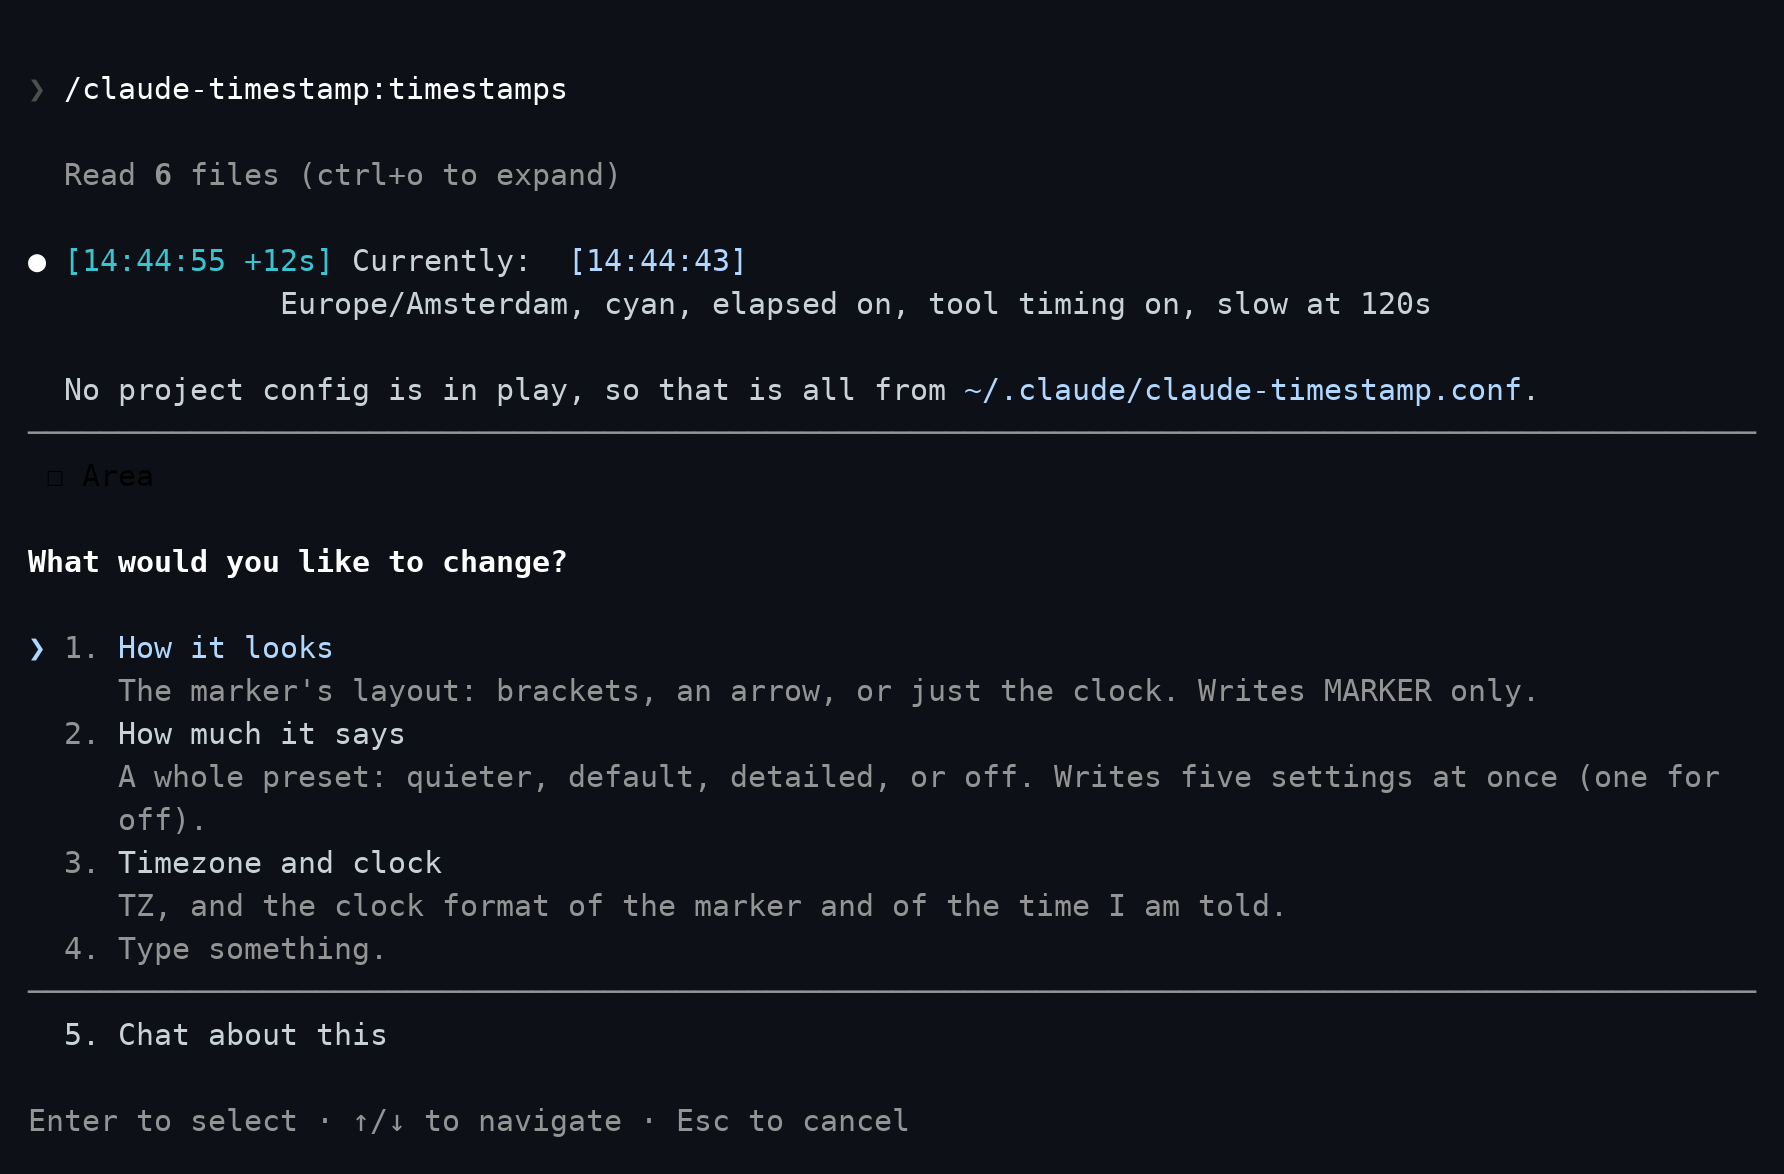
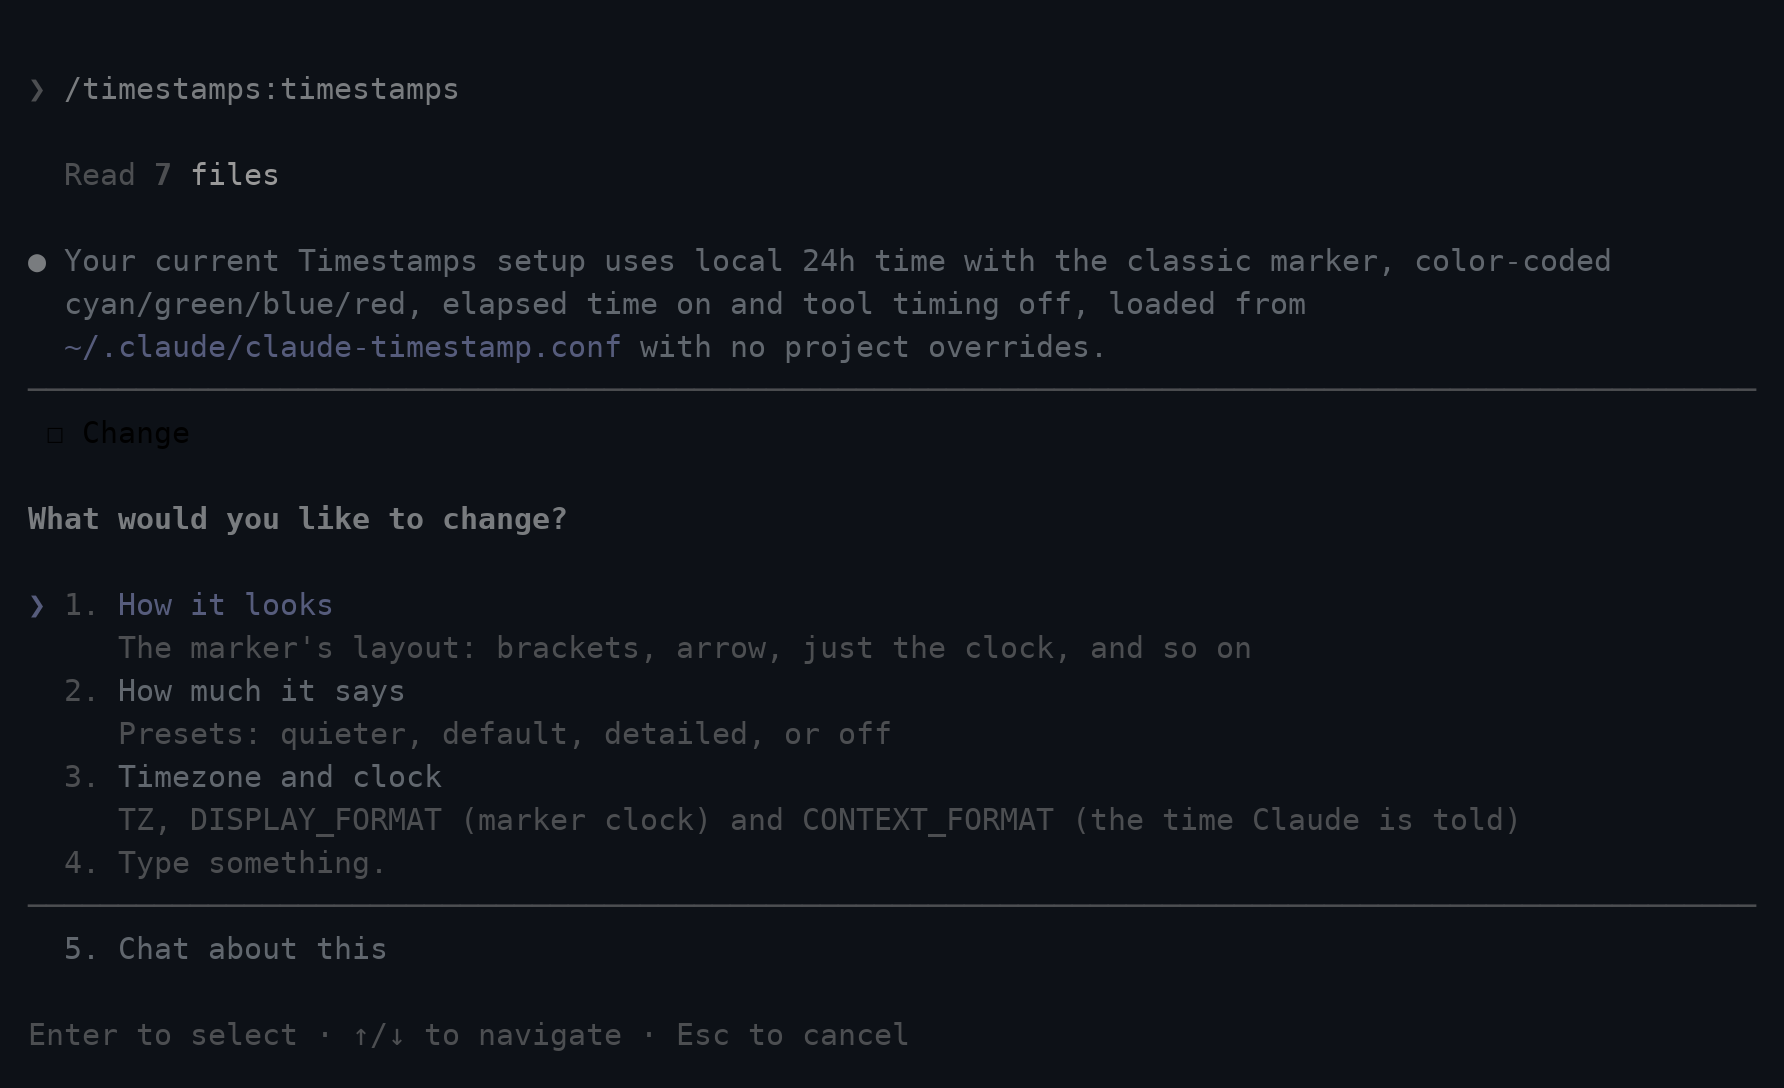
fix: let /timestamps run the command, not the configure skill of the same name (#112)
Claude Code ran the timestamps skill for /timestamps, so the command's question
never appeared. The skill is now hidden from the slash menu, as time-awareness
already is; Claude, and Codex, still use it. The picker shot loads this
checkout and shows the command again.

diff --git a/tools/screenshots/screenshots.py b/tools/screenshots/screenshots.py
@@ -671,11 +671,21 @@ def shot_picker():
     # under the picker on its own.
     cols, rows = 96, 50
     os.chdir(work)
-    raw = capture_pty(
-        ["claude"],
-        keys=[(6.0, "/timestamps"), (7.5, "\r")],
-        cols=cols, rows=rows, settle=12, total=100,
-    )
+    # This checkout's plugin rather than the installed one, as the skill shot
+    # does, so the picker shown is the command in this tree. The short symlink
+    # keeps any path it prints readable.
+    link_dir = Path(tempfile.mkdtemp(prefix="ct-", dir="/tmp"))
+    plugin = link_dir / "timestamps"
+    plugin.symlink_to(ROOT)
+    try:
+        raw = capture_pty(
+            ["claude", "--plugin-dir", str(plugin),
+             "--settings", json.dumps({"enabledPlugins": {"timestamps@aranea": False}})],
+            keys=[(6.0, "/timestamps"), (7.5, "\r")],
+            cols=cols, rows=rows, settle=12, total=100,
+        )
+    finally:
+        shutil.rmtree(link_dir, ignore_errors=True)
     (work / "picker.raw").write_bytes(raw)
 
     # Crop past the welcome banner, which carries the account's name, email and

diff --git a/README.md b/README.md
@@ -13,7 +13,7 @@ At the end, where the session's time actually went.
 [![Release](https://img.shields.io/github/v/release/AraneaDev/timestamps)](https://github.com/AraneaDev/timestamps/releases)
 [![Tool page](https://img.shields.io/badge/tool%20page-aranea--development.nl-0b7285)](https://aranea-development.nl/en/tools/timestamps)
 [![CI](https://github.com/AraneaDev/timestamps/actions/workflows/ci.yml/badge.svg)](https://github.com/AraneaDev/timestamps/actions/workflows/ci.yml)
-[![Tests](https://img.shields.io/badge/tests-1533%20passing-2b8a3e)](tests/run.sh)
+[![Tests](https://img.shields.io/badge/tests-1534%20passing-2b8a3e)](tests/run.sh)
 [![Platform](https://img.shields.io/badge/platform-Linux%20%7C%20macOS%20%7C%20Windows-364fc7)](docs/troubleshooting.md#platform-notes)
 [![Conventional Commits](https://img.shields.io/badge/commits-conventional-fe5196?logo=conventionalcommits&logoColor=white)](https://www.conventionalcommits.org/)
 [![License: MIT](https://img.shields.io/badge/License-MIT-yellow.svg)](./LICENSE)

diff --git a/CONTRIBUTING.md b/CONTRIBUTING.md
@@ -22,7 +22,7 @@ convention below. All three take `--no-verify` when you mean it.
 ## Checks
 
 ```bash
-bash tests/run.sh          # 1533 assertions, no framework and no dependencies
+bash tests/run.sh          # 1534 assertions, no framework and no dependencies
 bash tools/check-docs.sh   # the README and docs/ against the code
 shellcheck -S style -e SC1091 hooks/scripts/*.sh hooks/scripts/lib/*.sh tests/run.sh
 ```

diff --git a/skills/timestamps/SKILL.md b/skills/timestamps/SKILL.md
@@ -1,6 +1,7 @@
 ---
 name: timestamps
 description: Configure Timestamps when the user asks to change timestamps, timezone, clock format, marker appearance, elapsed time, tool timing, summaries, history, or model-facing time notes.
+user-invocable: false
 ---
 
 # Configure Timestamps
